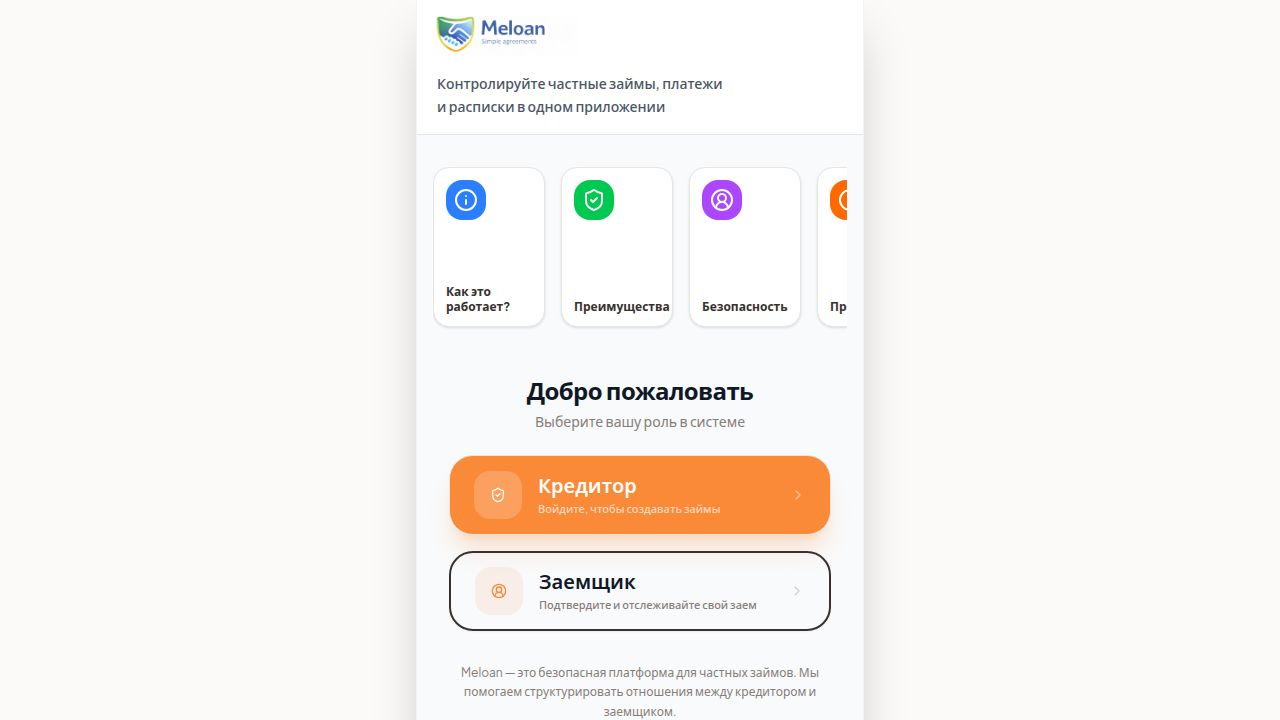
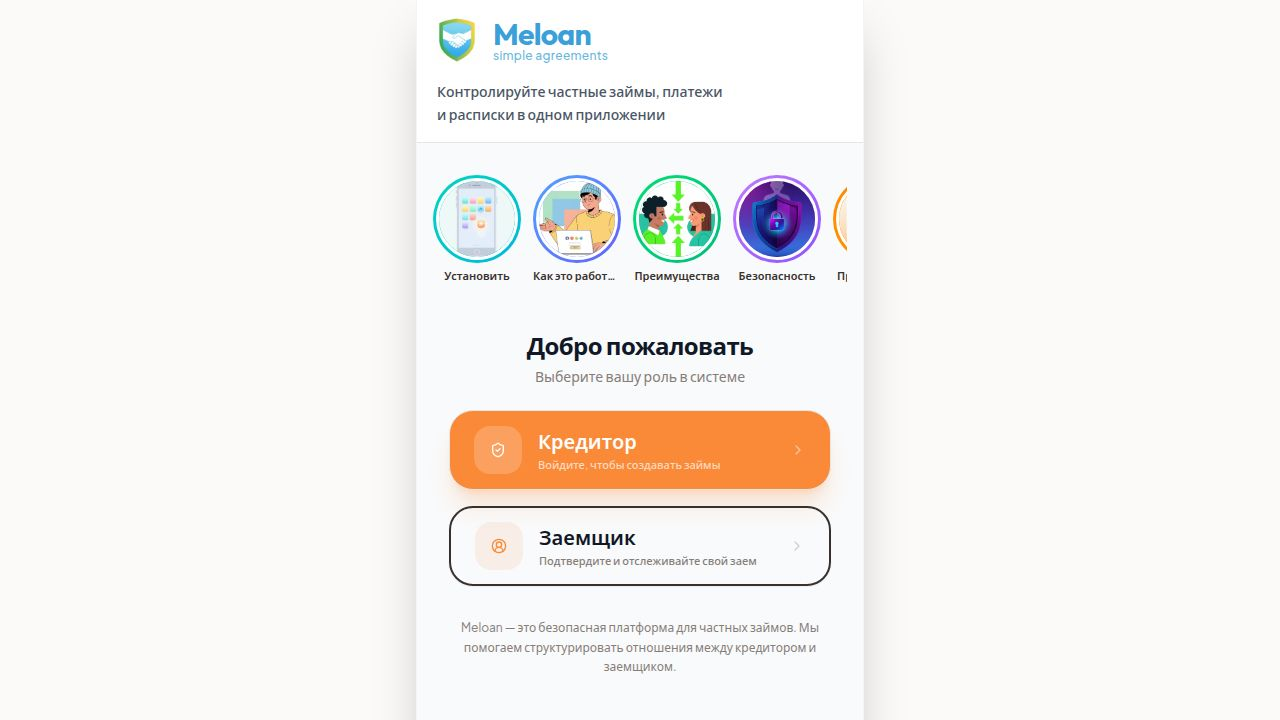
Add a full legal receipt with download option to loan agreement
Introduce a receipt generator utility and integrate a collapsible, downloadable legal receipt into the loan invite page.

Replit-Commit-Author: Agent
Replit-Commit-Session-Id: eaeec2f7-1713-4cfa-a8c2-994646517da5
Replit-Commit-Checkpoint-Type: full_checkpoint
Replit-Commit-Event-Id: 6d9db635-b1d7-4fb5-ac2b-9455c8967677
Replit-Commit-Screenshot-Url: https://storage.googleapis.com/screenshot-production-us-central1/b9d0473c-59b1-40aa-bb57-e7f8685da02d/eaeec2f7-1713-4cfa-a8c2-994646517da5/MdLInve
Replit-Helium-Checkpoint-Created: true

Changed region(s): [[0.3125, 0.2444, 0.6875, 1.0], [0.3438, 0.0, 0.5625, 0.1833]]

diff --git a/client/src/lib/receiptGenerator.ts b/client/src/lib/receiptGenerator.ts
@@ -1,0 +1,231 @@
+interface ReceiptData {
+  lenderName: string;
+  lenderPassport: string;
+  lenderAddress: string;
+  lenderPhone: string;
+  borrowerName: string;
+  borrowerPassport: string;
+  borrowerAddress: string;
+  borrowerPhone: string;
+  amount: number;
+  ratePercent: number;
+  termMonths: number;
+  monthlyPayment: number;
+  totalRepayment: number;
+  startDate: string;
+  frequency: string;
+  signedDate?: string;
+}
+
+function numberToWordsRu(n: number): string {
+  if (n === 0) return "ноль";
+
+  const ones = ["", "один", "два", "три", "четыре", "пять", "шесть", "семь", "восемь", "девять",
+    "десять", "одиннадцать", "двенадцать", "тринадцать", "четырнадцать", "пятнадцать",
+    "шестнадцать", "семнадцать", "восемнадцать", "девятнадцать"];
+  const tens = ["", "", "двадцать", "тридцать", "сорок", "пятьдесят", "шестьдесят", "семьдесят", "восемьдесят", "девяносто"];
+  const hundreds = ["", "сто", "двести", "триста", "четыреста", "пятьсот", "шестьсот", "семьсот", "восемьсот", "девятьсот"];
+  const thousands = ["тысяча", "тысячи", "тысяч"];
+  const millions = ["миллион", "миллиона", "миллионов"];
+
+  function pluralForm(n: number, forms: string[]): string {
+    const mod10 = n % 10;
+    const mod100 = n % 100;
+    if (mod100 >= 11 && mod100 <= 19) return forms[2];
+    if (mod10 === 1) return forms[0];
+    if (mod10 >= 2 && mod10 <= 4) return forms[1];
+    return forms[2];
+  }
+
+  function convertGroup(num: number): string {
+    const parts: string[] = [];
+    if (num >= 100) {
+      parts.push(hundreds[Math.floor(num / 100)]);
+      num %= 100;
+    }
+    if (num >= 20) {
+      parts.push(tens[Math.floor(num / 10)]);
+      num %= 10;
+    }
+    if (num > 0) {
+      parts.push(ones[num]);
+    }
+    return parts.join(" ");
+  }
+
+  const parts: string[] = [];
+
+  if (n >= 1000000) {
+    const mil = Math.floor(n / 1000000);
+    parts.push(convertGroup(mil) + " " + pluralForm(mil, millions));
+    n %= 1000000;
+  }
+
+  if (n >= 1000) {
+    let th = Math.floor(n / 1000);
+    let thWord = convertGroup(th);
+    if (th % 10 === 1 && th % 100 !== 11) thWord = thWord.replace(/один$/, "одна");
+    if (th % 10 === 2 && th % 100 !== 12) thWord = thWord.replace(/два$/, "две");
+    parts.push(thWord + " " + pluralForm(th, thousands));
+    n %= 1000;
+  }
+
+  if (n > 0) {
+    parts.push(convertGroup(n));
+  }
+
+  return parts.join(" ").replace(/\s+/g, " ").trim();
+}
+
+function formatDate(dateStr: string): string {
+  try {
+    const d = new Date(dateStr);
+    const months = [
+      "января", "февраля", "марта", "апреля", "мая", "июня",
+      "июля", "августа", "сентября", "октября", "ноября", "декабря"
+    ];
+    return `«${d.getDate()}» ${months[d.getMonth()]} ${d.getFullYear()} г.`;
+  } catch {
+    return dateStr;
+  }
+}
+
+function formatFrequency(freq: string): string {
+  const map: Record<string, string> = {
+    monthly: "ежемесячно",
+    weekly: "еженедельно",
+    daily: "ежедневно",
+    once: "единовременно",
+  };
+  return map[freq] || "ежемесячно";
+}
+
+export function generateReceiptText(data: ReceiptData): string {
+  const amountWords = numberToWordsRu(data.amount);
+  const today = data.signedDate ? formatDate(data.signedDate) : formatDate(new Date().toISOString());
+  const startFormatted = formatDate(data.startDate);
+
+  return `РАСПИСКА
+о получении денежных средств в долг
+
+Дата составления: ${today}
+
+Я, ${data.borrowerName || "___________________________"},
+паспорт: ${data.borrowerPassport || "___________________________"},
+зарегистрированный(-ая) по адресу: ${data.borrowerAddress || "___________________________"},
+контактный телефон: ${data.borrowerPhone || "___________________________"},
+(далее — «Заёмщик»),
+
+настоящей распиской подтверждаю, что получил(-а) от:
+
+${data.lenderName || "___________________________"},
+паспорт: ${data.lenderPassport || "___________________________"},
+зарегистрированный(-ая) по адресу: ${data.lenderAddress || "___________________________"},
+контактный телефон: ${data.lenderPhone || "___________________________"},
+(далее — «Кредитор»),
+
+денежные средства в размере ${data.amount.toLocaleString("ru-RU")} (${amountWords}) рублей.
+
+УСЛОВИЯ ЗАЙМА:
+
+1. Процентная ставка: ${data.ratePercent}% годовых.
+2. Срок займа: ${data.termMonths} мес., начиная с ${startFormatted}.
+3. Периодичность платежей: ${formatFrequency(data.frequency)}.
+4. Размер периодического платежа: ${data.monthlyPayment.toLocaleString("ru-RU")} руб.
+5. Общая сумма к возврату (с процентами): ${data.totalRepayment.toLocaleString("ru-RU")} руб.
+
+ОБЯЗАТЕЛЬСТВА ЗАЁМЩИКА:
+
+Заёмщик обязуется вернуть указанную сумму с процентами в полном объёме в соответствии с графиком платежей. В случае досрочного погашения проценты пересчитываются на фактический срок пользования денежными средствами.
+
+Настоящая расписка составлена в электронной форме и подтверждена обеими сторонами через платформу Meloan. Электронная подпись имеет юридическую силу в соответствии со ст. 808 ГК РФ.
+
+Заёмщик: ${data.borrowerName || "___________________________"}
+Дата подписания: ${today}
+
+Кредитор: ${data.lenderName || "___________________________"}`;
+}
+
+export function generateReceiptHTML(data: ReceiptData): string {
+  const text = generateReceiptText(data);
+  const lines = text.split("\n");
+
+  let html = `<!DOCTYPE html>
+<html lang="ru">
+<head>
+<meta charset="UTF-8">
+<title>Расписка — Meloan</title>
+<style>
+  @page { margin: 2cm; }
+  body {
+    font-family: "Times New Roman", Times, Georgia, serif;
+    font-size: 14px;
+    line-height: 1.8;
+    color: #1a1a1a;
+    max-width: 700px;
+    margin: 0 auto;
+    padding: 40px;
+  }
+  .title {
+    text-align: center;
+    font-size: 20px;
+    font-weight: bold;
+    letter-spacing: 4px;
+    text-transform: uppercase;
+    margin-bottom: 4px;
+  }
+  .subtitle {
+    text-align: center;
+    font-size: 14px;
+    margin-bottom: 30px;
+    color: #444;
+  }
+  .section-title {
+    font-weight: bold;
+    margin-top: 24px;
+    margin-bottom: 8px;
+    text-transform: uppercase;
+    letter-spacing: 1px;
+  }
+  .signature-line {
+    margin-top: 40px;
+    border-top: 1px solid #333;
+    display: inline-block;
+    min-width: 300px;
+    padding-top: 4px;
+  }
+</style>
+</head>
+<body>`;
+
+  for (const line of lines) {
+    const trimmed = line.trim();
+    if (trimmed === "РАСПИСКА") {
+      html += `<div class="title">${trimmed}</div>`;
+    } else if (trimmed === "о получении денежных средств в долг") {
+      html += `<div class="subtitle">${trimmed}</div>`;
+    } else if (trimmed === "УСЛОВИЯ ЗАЙМА:" || trimmed === "ОБЯЗАТЕЛЬСТВА ЗАЁМЩИКА:") {
+      html += `<div class="section-title">${trimmed}</div>`;
+    } else if (trimmed === "") {
+      html += `<br>`;
+    } else {
+      html += `<p style="margin:2px 0">${trimmed}</p>`;
+    }
+  }
+
+  html += `</body></html>`;
+  return html;
+}
+
+export function downloadReceiptAsHTML(data: ReceiptData) {
+  const html = generateReceiptHTML(data);
+  const blob = new Blob([html], { type: "text/html;charset=utf-8" });
+  const url = URL.createObjectURL(blob);
+  const a = document.createElement("a");
+  a.href = url;
+  a.download = `Расписка_Meloan_${new Date().toISOString().slice(0, 10)}.html`;
+  document.body.appendChild(a);
+  a.click();
+  document.body.removeChild(a);
+  URL.revokeObjectURL(url);
+}

diff --git a/client/src/pages/borrower/invite.tsx b/client/src/pages/borrower/invite.tsx
@@ -10,11 +10,12 @@ import { useLocation, useRoute } from "wouter";
 import { Card, CardContent } from "@/components/ui/card";
 import { useState, useEffect } from "react";
 import { cn } from "@/lib/utils";
-import { FileText, Loader2 } from "lucide-react";
+import { FileText, Loader2, ChevronDown, Download } from "lucide-react";
 import { motion, AnimatePresence } from "framer-motion";
 import { useQuery, useMutation } from "@tanstack/react-query";
 import { queryClient } from "@/lib/queryClient";
 import { getLoan, acceptLoan, getLenderProfile } from "@/lib/api";
+import { generateReceiptText, downloadReceiptAsHTML } from "@/lib/receiptGenerator";
 
 export default function BorrowerInvite() {
   const [, params] = useRoute("/invite/:id");
@@ -27,6 +28,7 @@ export default function BorrowerInvite() {
   const [step, setStep] = useState<1 | 2>(1);
   const [confirmedTerms, setConfirmedTerms] = useState(false);
   const [signedReceipt, setSignedReceipt] = useState(false);
+  const [receiptExpanded, setReceiptExpanded] = useState(false);
 
   const { data: loan, isLoading } = useQuery({
     queryKey: ["/api/loans", loanId],
@@ -47,6 +49,8 @@ export default function BorrowerInvite() {
         address: ""
     }
   });
+
+  const watchedValues = form.watch();
 
   useEffect(() => {
     if (loan) {
@@ -107,6 +111,26 @@ export default function BorrowerInvite() {
       borrowerAddress: data.address,
     });
   };
+
+  const receiptData = {
+    lenderName: lenderProfile?.name || "",
+    lenderPassport: lenderProfile?.passport || "",
+    lenderAddress: lenderProfile?.address || "",
+    lenderPhone: lenderProfile?.phone || "",
+    borrowerName: watchedValues.borrowerName || "",
+    borrowerPassport: watchedValues.passport || "",
+    borrowerAddress: watchedValues.address || "",
+    borrowerPhone: loan.borrowerContact || "",
+    amount: loan.amount,
+    ratePercent: Number(loan.ratePercent),
+    termMonths: loan.termMonths,
+    monthlyPayment: loan.monthlyPayment,
+    totalRepayment: loan.totalRepayment,
+    startDate: loan.startDate,
+    frequency: loan.frequency || "monthly",
+  };
+
+  const receiptText = generateReceiptText(receiptData);
 
   return (
     <MobileLayout>
@@ -228,6 +252,54 @@ export default function BorrowerInvite() {
                         <div className="space-y-2">
                             <Label>{t.address}</Label>
                             <Input data-testid="input-borrower-address" {...form.register("address", { required: true })} className="rounded-xl h-12" />
+                        </div>
+
+                        <div className="mt-6 border border-stone-300 rounded-2xl overflow-hidden bg-stone-50">
+                            <button
+                                type="button"
+                                onClick={() => setReceiptExpanded(!receiptExpanded)}
+                                className="w-full flex items-center justify-between p-4 hover:bg-stone-100 transition-colors"
+                                data-testid="button-toggle-receipt"
+                            >
+                                <div className="flex items-center gap-2">
+                                    <FileText className="w-4 h-4 text-stone-600" />
+                                    <span className="text-sm font-semibold text-stone-700">Полный текст расписки</span>
+                                </div>
+                                <ChevronDown className={cn("w-5 h-5 text-stone-500 transition-transform duration-200", receiptExpanded && "rotate-180")} />
+                            </button>
+
+                            <AnimatePresence>
+                                {receiptExpanded && (
+                                    <motion.div
+                                        initial={{ height: 0, opacity: 0 }}
+                                        animate={{ height: "auto", opacity: 1 }}
+                                        exit={{ height: 0, opacity: 0 }}
+                                        transition={{ duration: 0.3 }}
+                                        className="overflow-hidden"
+                                    >
+                                        <div className="border-t border-stone-300">
+                                            <div className="p-5 bg-white mx-3 my-3 border border-stone-200 rounded-lg shadow-inner">
+                                                <pre className="whitespace-pre-wrap text-[13px] leading-relaxed text-stone-800" style={{ fontFamily: "'Times New Roman', Times, Georgia, serif" }}>
+                                                    {receiptText}
+                                                </pre>
+                                            </div>
+
+                                            <div className="px-4 pb-4">
+                                                <Button
+                                                    type="button"
+                                                    variant="outline"
+                                                    onClick={() => downloadReceiptAsHTML(receiptData)}
+                                                    className="w-full rounded-xl h-11 gap-2 text-stone-700 border-stone-300 hover:bg-stone-100"
+                                                    data-testid="button-download-receipt"
+                                                >
+                                                    <Download className="w-4 h-4" />
+                                                    Скачать расписку
+                                                </Button>
+                                            </div>
+                                        </div>
+                                    </motion.div>
+                                )}
+                            </AnimatePresence>
                         </div>
 
                         <div className="flex items-start gap-3 p-4 mt-6 bg-white rounded-2xl border border-border">

diff --git a/replit.md b/replit.md
@@ -69,6 +69,7 @@ Russian-language peer-to-peer lending platform where users can act as Lender (К
 - `client/src/lib/store.ts` - Zustand (borrower session context only) + translations
 - `client/src/lib/api.ts` - API client functions
 - `client/src/lib/pushNotifications.ts` - Push notification subscription utilities
+- `client/src/lib/receiptGenerator.ts` - Legal receipt text/HTML generation + download
 - `client/src/pages/` - React pages (master/*, borrower/*)
 - `client/public/sw.js` - Service worker for push notifications
 - `server/pushNotifications.ts` - Server-side push notification sending + scheduled reminders